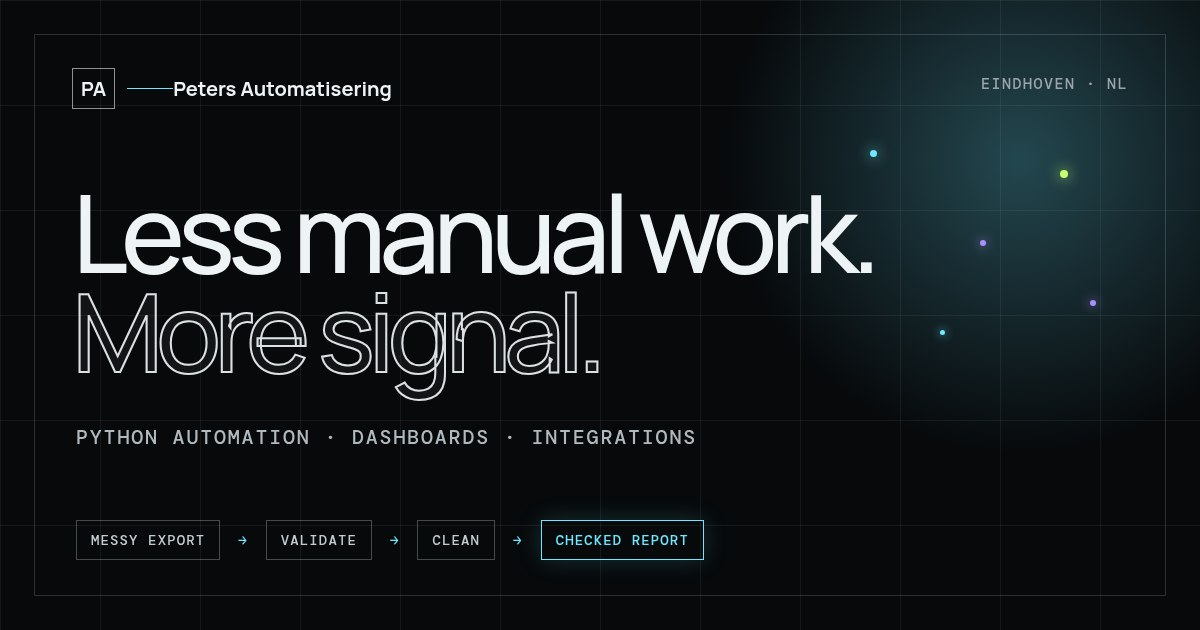
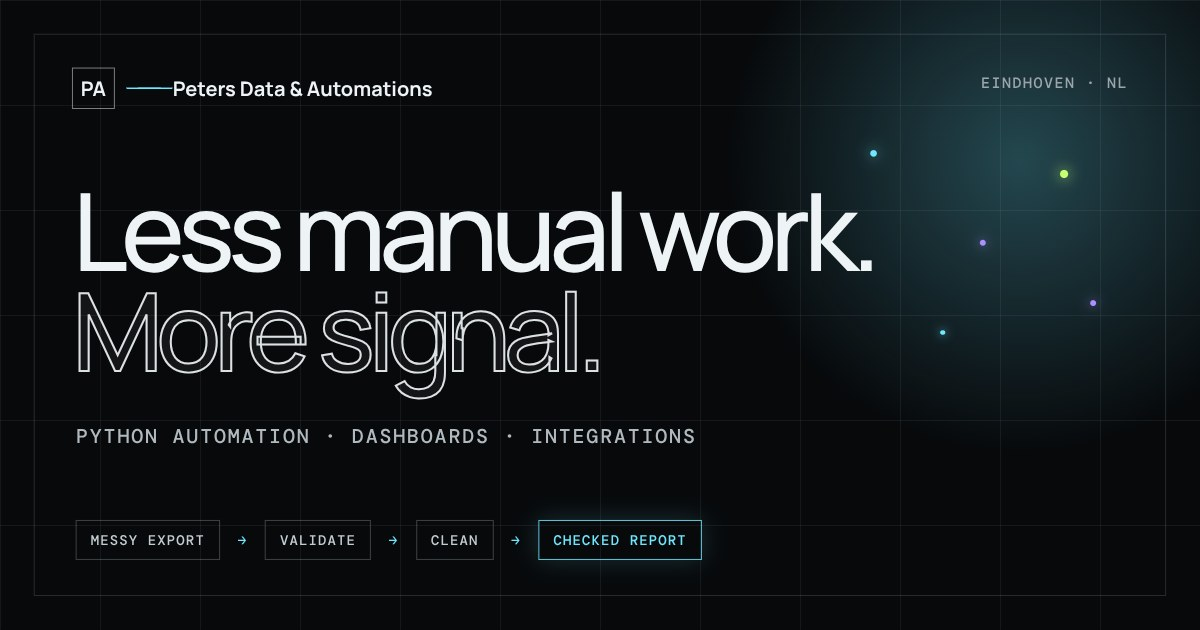
Rename business to 'Peters Data & Automations' (new KVK trade name)

diff --git a/index.html b/index.html
@@ -3,18 +3,18 @@
 <head>
   <meta charset="UTF-8" />
   <meta name="viewport" content="width=device-width, initial-scale=1.0" />
-  <title>Peters Automatisering — Python automation, dashboards and integrations</title>
-  <meta name="description" content="Casper Peters (Peters Automatisering, Eindhoven) builds Python automations, dashboards and API integrations for small businesses. Try the live demo: a messy spreadsheet turned into a checked report." />
+  <title>Peters Data &amp; Automations — Python automation, dashboards and integrations</title>
+  <meta name="description" content="Casper Peters (Peters Data &amp; Automations, Eindhoven) builds Python automations, dashboards and API integrations for small businesses. Try the live demo: a messy spreadsheet turned into a checked report." />
   <meta name="theme-color" content="#07090b" />
   <meta property="og:type" content="website" />
   <meta property="og:locale" content="en_GB" />
   <meta property="og:url" content="https://casperpeters.github.io/peters-automatisering-portfolio/" />
-  <meta property="og:title" content="Peters Automatisering — less manual work, more signal" />
+  <meta property="og:title" content="Peters Data &amp; Automations — less manual work, more signal" />
   <meta property="og:description" content="Python automations, clear dashboards and AI-assisted workflows for small businesses. Try the live demo." />
   <meta property="og:image" content="https://casperpeters.github.io/peters-automatisering-portfolio/assets/og-cover.jpg" />
   <meta property="og:image:width" content="1200" />
   <meta property="og:image:height" content="630" />
-  <meta property="og:image:alt" content="Peters Automatisering — Python automation, dashboards and integrations" />
+  <meta property="og:image:alt" content="Peters Data &amp; Automations — Python automation, dashboards and integrations" />
   <meta name="twitter:card" content="summary_large_image" />
   <meta name="twitter:image" content="https://casperpeters.github.io/peters-automatisering-portfolio/assets/og-cover.jpg" />
   <link rel="canonical" href="https://casperpeters.github.io/peters-automatisering-portfolio/" />
@@ -26,7 +26,7 @@
   {
     "@context": "https://schema.org",
     "@type": "ProfessionalService",
-    "name": "Peters Automatisering",
+    "name": "Peters Data & Automations",
     "description": "Python automations, dashboards and API integrations for small businesses.",
     "founder": { "@type": "Person", "name": "Casper Peters", "jobTitle": "Automation developer" },
     "areaServed": "Worldwide",
@@ -45,7 +45,7 @@
   <div class="grain" aria-hidden="true"></div>
 
   <header class="topbar shell">
-    <a class="mark" href="#top" aria-label="Peters Automatisering — back to top"><span>PA</span><i></i></a>
+    <a class="mark" href="#top" aria-label="Peters Data &amp; Automations — back to top"><span>PA</span><i></i></a>
     <nav aria-label="Main navigation">
       <a class="nav-optional" href="#services">Services</a>
       <a href="#demo">Live demo</a>
@@ -69,7 +69,7 @@
       </div>
 
       <div class="hero-copy">
-        <p class="eyebrow mono"><span>01</span> PETERS AUTOMATISERING · PYTHON · DASHBOARDS · INTEGRATIONS</p>
+        <p class="eyebrow mono"><span>01</span> PETERS DATA &amp; AUTOMATIONS · PYTHON · DASHBOARDS · INTEGRATIONS</p>
         <h1>Less manual work.<br><em>More signal.</em></h1>
         <p class="intro">I help small businesses turn repetitive manual work into practical software: Python automations, clear dashboards and AI-assisted workflows. I'm Casper Peters, an applied physicist and software builder in Eindhoven.</p>
         <div class="hero-actions">
@@ -414,7 +414,7 @@
       <div class="contact-footer mono">
         <a href="https://www.linkedin.com/in/casper-peters-a29796209" target="_blank" rel="noreferrer">LINKEDIN ↗</a>
         <a href="https://github.com/casperpeters" target="_blank" rel="noreferrer">GITHUB ↗</a>
-        <span>© 2026 PETERS AUTOMATISERING · CASPER PETERS</span>
+        <span>© 2026 PETERS DATA &amp; AUTOMATIONS · CASPER PETERS</span>
       </div>
     </section>
   </main>

diff --git a/privacy.html b/privacy.html
@@ -3,7 +3,7 @@
 <head>
 <meta charset="utf-8" />
 <meta name="viewport" content="width=device-width, initial-scale=1" />
-<title>Privacybeleid – CP Automations</title>
+<title>Privacybeleid – Peters Data &amp; Automations</title>
 <style>
 body{font-family:system-ui,-apple-system,Segoe UI,Roboto,Arial,sans-serif;max-width:760px;margin:40px auto;padding:0 20px;line-height:1.6;color:#1d2433}
 h1{font-size:1.7rem;margin-bottom:.2rem} h2{font-size:1.15rem;margin-top:1.8rem}
@@ -12,10 +12,10 @@ h1{font-size:1.7rem;margin-bottom:.2rem} h2{font-size:1.15rem;margin-top:1.8rem}
 </head>
 <body>
 <h1>Privacybeleid</h1>
-<p class="muted">CP Automations (Casper Peters, Eindhoven) · KVK 42183048 · laatst bijgewerkt 20 oktober 2026</p>
+<p class="muted">Peters Data &amp; Automations (Casper Peters), KVK 42183048 · Eindhoven · laatst bijgewerkt 20 oktober 2026</p>
 
 <h2>Waar dit over gaat</h2>
-<p>Dit beleid geldt voor de website van CP Automations en voor "Osmium", een persoonlijke assistent-applicatie die ik zelf gebruik. Osmium koppelt via Google OAuth met mijn eigen Google-account (Gmail, Agenda, Drive, Sheets, Docs, Contacten) om mijn eigen administratie en communicatie te ondersteunen.</p>
+<p>Dit beleid geldt voor de website van Peters Data &amp; Automations en voor "Osmium", een persoonlijke assistent-applicatie die ik zelf gebruik. Osmium koppelt via Google OAuth met mijn eigen Google-account (Gmail, Agenda, Drive, Sheets, Docs, Contacten) om mijn eigen administratie en communicatie te ondersteunen.</p>
 
 <h2>Welke gegevens</h2>
 <ul>
@@ -40,6 +40,6 @@ h1{font-size:1.7rem;margin-bottom:.2rem} h2{font-size:1.15rem;margin-top:1.8rem}
 
 <hr />
 <h2 lang="en">Privacy policy (English summary)</h2>
-<p lang="en">CP Automations (Casper Peters, Eindhoven, NL) runs "Osmium", a personal assistant app that accesses only the owner's own Google account (Gmail, Calendar, Drive, Sheets, Docs, Contacts) with the owner's consent, to perform tasks the owner requests. Tokens are stored locally on the owner's computer. Data is not sold, not shared with third parties and not used to train generalised AI models. Use of information received from Google APIs adheres to the Google API Services User Data Policy, including the Limited Use requirements. This website uses no cookies or tracking. Revoke access at any time at myaccount.google.com/permissions. Contact: casper.peters@gmail.com.</p>
+<p lang="en">Peters Data &amp; Automations (Casper Peters, Eindhoven, NL) runs "Osmium", a personal assistant app that accesses only the owner's own Google account (Gmail, Calendar, Drive, Sheets, Docs, Contacts) with the owner's consent, to perform tasks the owner requests. Tokens are stored locally on the owner's computer. Data is not sold, not shared with third parties and not used to train generalised AI models. Use of information received from Google APIs adheres to the Google API Services User Data Policy, including the Limited Use requirements. This website uses no cookies or tracking. Revoke access at any time at myaccount.google.com/permissions. Contact: casper.peters@gmail.com.</p>
 </body>
 </html>

diff --git a/tools/og-cover.html b/tools/og-cover.html
@@ -28,7 +28,7 @@
   <span style="left:940px;top:330px;width:5px;height:5px;background:#6ee7ff;box-shadow:0 0 10px #6ee7ff"></span>
   <span style="left:1090px;top:300px;width:6px;height:6px;background:#ab91ff;box-shadow:0 0 12px #ab91ff"></span>
 </div>
-<div class="mark"><span>PA</span><i></i><b>Peters Automatisering</b></div>
+<div class="mark"><span>PA</span><i></i><b>Peters Data &amp; Automations</b></div>
 <div class="tag">EINDHOVEN · NL</div>
 <h1>Less manual work.<br><em>More signal.</em></h1>
 <div class="sub">Python automation · Dashboards · Integrations</div>

diff --git a/styles.css b/styles.css
@@ -403,7 +403,7 @@ h1 em::after {
 }
 
 /* =====================================================================
-   Peters Automatisering additions
+   Peters Data & Automations additions
    ===================================================================== */
 
 .sr-only { position: absolute; width: 1px; height: 1px; padding: 0; margin: -1px; overflow: hidden; clip: rect(0 0 0 0); clip-path: inset(50%); white-space: nowrap; border: 0; }

diff --git a/README.md b/README.md
@@ -1,4 +1,4 @@
-# Peters Automatisering — portfolio site
+# Peters Data & Automations — portfolio site
 
 A single-page portfolio for Casper Peters' freelance automation business (Eindhoven, NL), built to be linked from an Upwork profile. It is a static site: no build step, no dependencies, no tracking.
 
